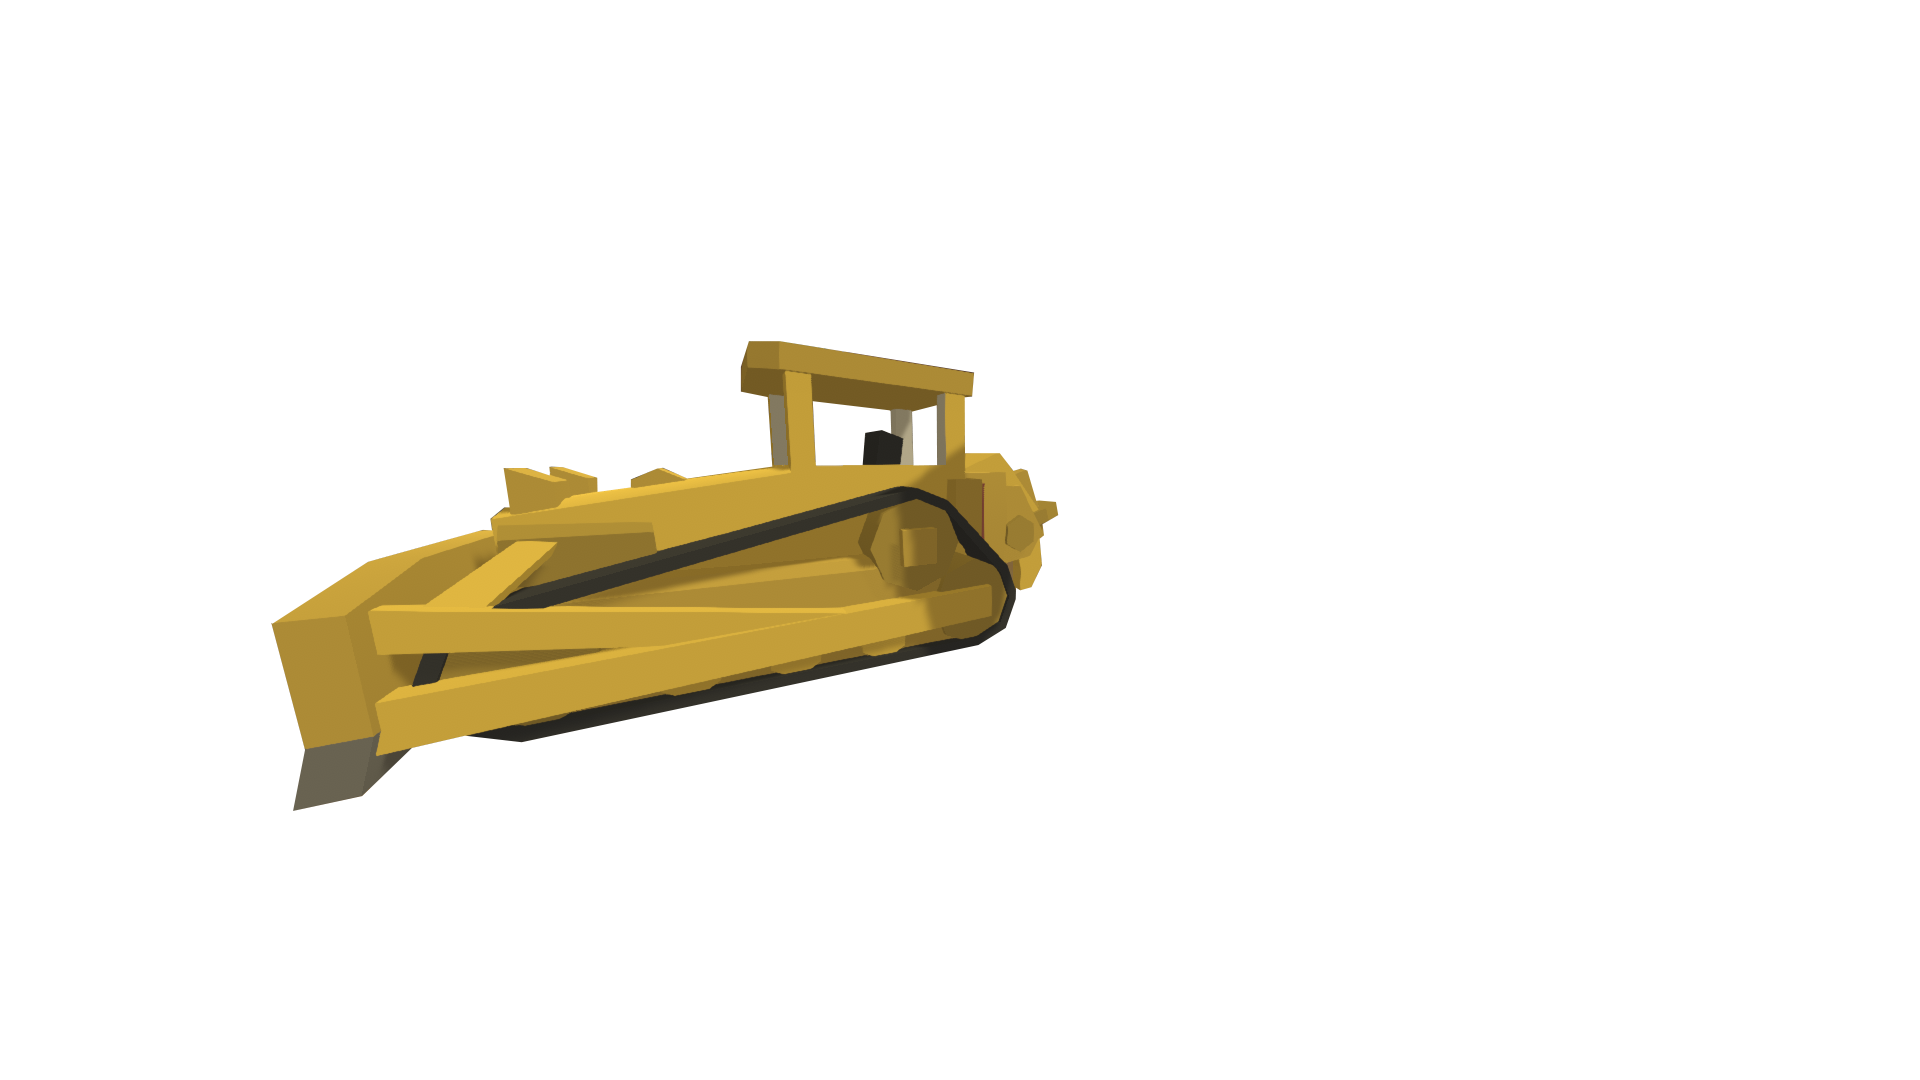
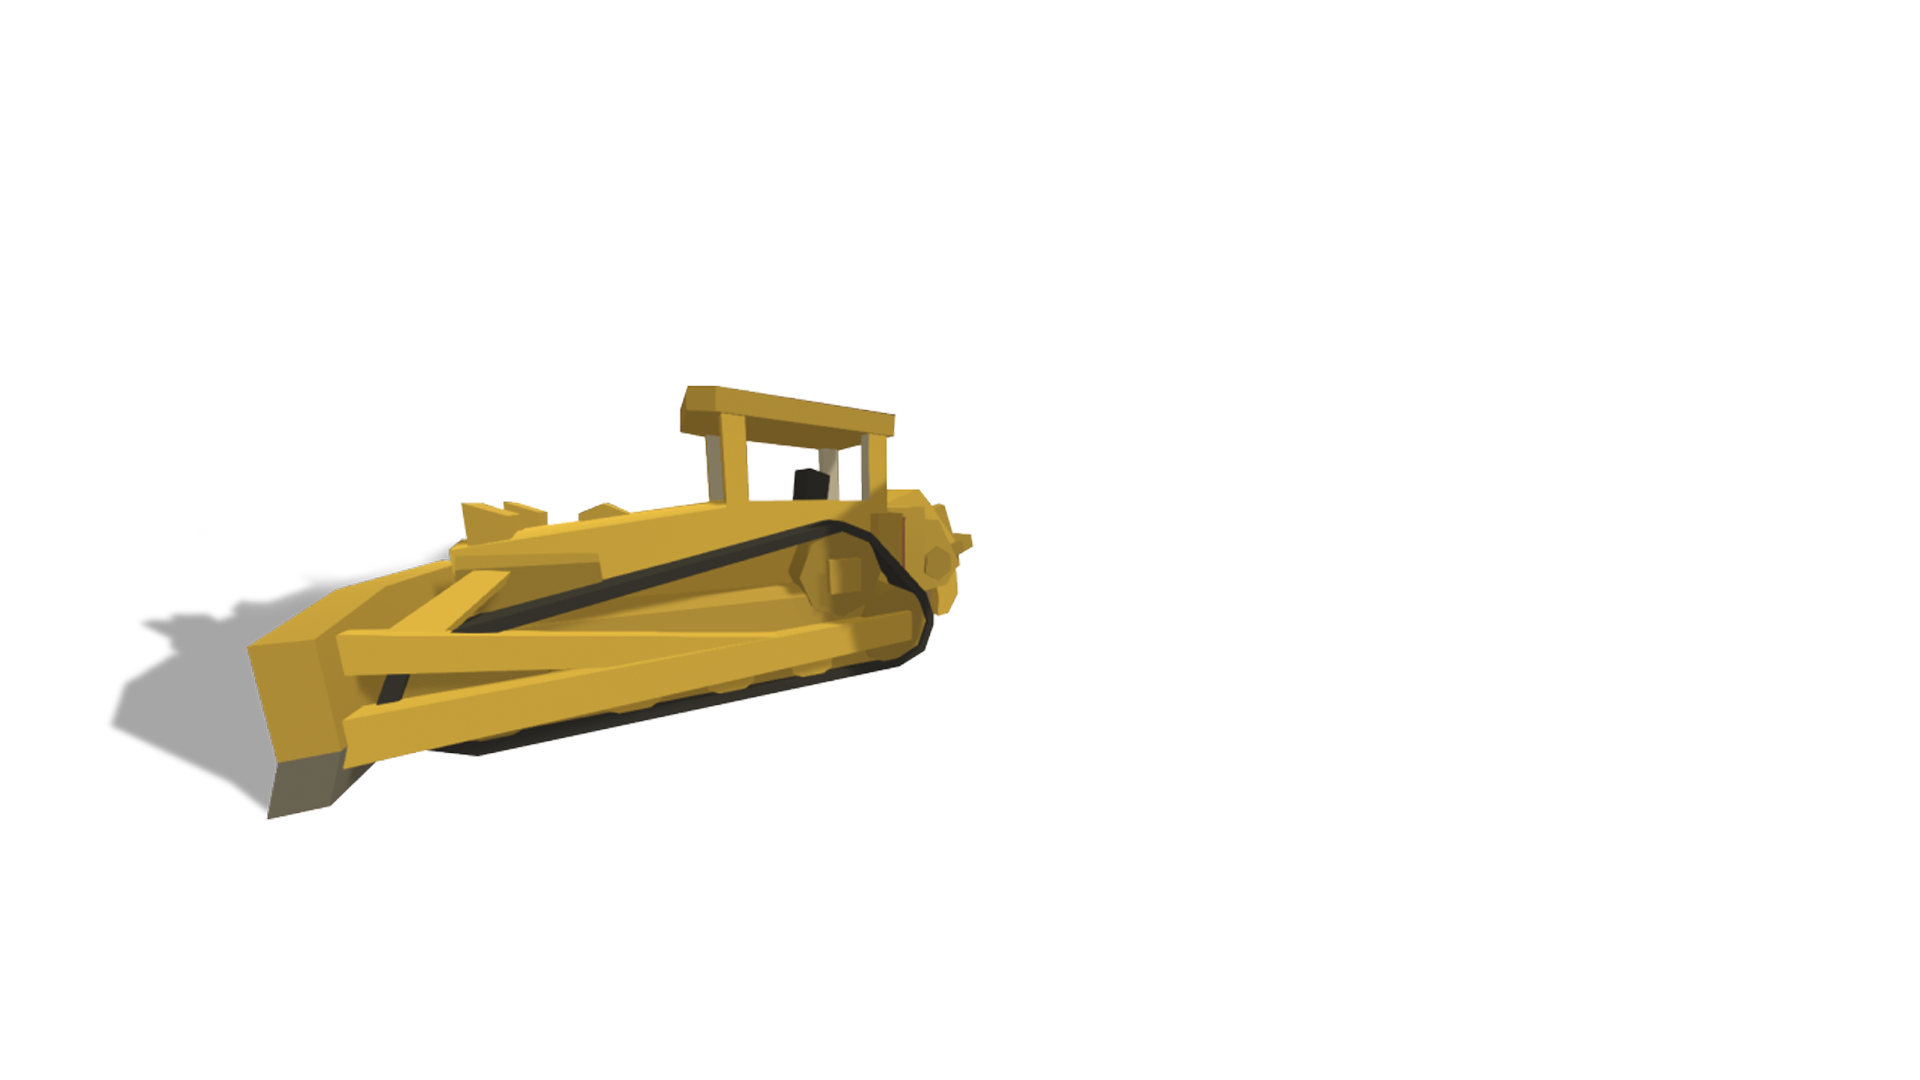
Ajout texte flottant

Changed region(s): [[0.0625, 0.3056, 0.5625, 0.7639]]

diff --git a/resources/views/misc/accueil.blade.php b/resources/views/misc/accueil.blade.php
@@ -7,20 +7,120 @@
     overflow: hidden;
   }
 
-  .scaled > * {
+  .scaled>* {
     /* the children */
     margin: -25px;
+  }
+
+  .para-text {
+    width: 100%;
+    height: 100%;
+  }
+
+  .para-title {
+    max-width: 25vw;
+    font-size: calc(14px + (35 - 14) * ((100vw - 300px) / (1600 - 300)));
+
+    -webkit-animation: floating-text 2s ease alternate infinite;
+    -moz-animation: floating-text 2s ease alternate infinite;
+    -ms-animation: floating-text 2s ease alternate infinite;
+    -o-animation: floating-text 2s ease alternate infinite;
+    animation: floating-text 2s ease alternate infinite;
+  }
+
+
+  @-webkit-keyframes floating-text {
+    0% {
+      -webkit-transform: translateY(.2em);
+      text-shadow: 0 0 .5em rgba(255, 255, 255, .4),
+        0 0 .2em rgba(0, 0, 0, .3),
+        0 .3em .2em rgba(0, 0, 0, .3);
+
+    }
+
+    100% {
+      text-shadow: 0 0 .5em rgba(255, 255, 255, .4),
+        0 0 .2em rgba(0, 0, 0, .3),
+        0 .5em .5em rgba(0, 0, 0, .3);
+    }
+  }
+
+  @-moz-keyframes floating-text {
+    0% {
+      -moz-transform: translateY(.2em);
+      text-shadow: 0 0 .5em rgba(255, 255, 255, .4),
+        0 0 .2em rgba(0, 0, 0, .3),
+        0 .3em .2em rgba(0, 0, 0, .3);
+
+    }
+
+    100% {
+      text-shadow: 0 0 .5em rgba(255, 255, 255, .4),
+        0 0 .2em rgba(0, 0, 0, .3),
+        0 .5em .5em rgba(0, 0, 0, .3);
+    }
+  }
+
+  @-ms-keyframes floating-text {
+    0% {
+      -ms-transform: translateY(.2em);
+      text-shadow: 0 0 .5em rgba(255, 255, 255, .4),
+        0 0 .2em rgba(0, 0, 0, .3),
+        0 .3em .2em rgba(0, 0, 0, .3);
+
+    }
+
+    100% {
+      text-shadow: 0 0 .5em rgba(255, 255, 255, .4),
+        0 0 .2em rgba(0, 0, 0, .3),
+        0 .5em .5em rgba(0, 0, 0, .3);
+    }
+  }
+
+  @-o-keyframes floating-text {
+    0% {
+      -o-transform: translateY(.2em);
+      text-shadow: 0 0 .5em rgba(255, 255, 255, .4),
+        0 0 .2em rgba(0, 0, 0, .3),
+        0 .3em .2em rgba(0, 0, 0, .3);
+
+    }
+
+    100% {
+      text-shadow: 0 0 .5em rgba(255, 255, 255, .4),
+        0 0 .2em rgba(0, 0, 0, .3),
+        0 .5em .5em rgba(0, 0, 0, .3);
+    }
+  }
+
+  @keyframes floating-text {
+    0% {
+      transform: translateY(.2em);
+      text-shadow: 0 0 .5em rgba(255, 255, 255, .4),
+        0 0 .2em rgba(0, 0, 0, .3),
+        0 .3em .2em rgba(0, 0, 0, .3);
+
+    }
+
+    100% {
+      text-shadow: 0 0 .5em rgba(255, 255, 255, .4),
+        0 0 .2em rgba(0, 0, 0, .3),
+        0 .5em .5em rgba(0, 0, 0, .3);
+    }
   }
 </style>
 @endsection
 
 @section('content')
 <div class="scaled">
-    <figure id="scene">
-      <img class="img-fluid" src="/uploads/test_1.png" alt="image-1" data-depth="0.2">
-      <img class="img-fluid" src="/uploads/test_2.png" alt="image-2" data-depth="0.4">
-      <img class="img-fluid" src="/uploads/test_3.png" alt="image-3" data-depth="0.6">
-    </figure>
+  <figure id="scene">
+    <img class="img-fluid" src="/uploads/test_1.png" alt="image-1" data-depth="0.2">
+    <img class="img-fluid" src="/uploads/test_2.png" alt="image-2" data-depth="0.25">
+    <div class="para-text" data-depth="0.4">
+      <h1 class="para-title" style="left: 25%; top: 25%; position: absolute; color: #fff;">Wow, ce chantier est très sécurisé !</h1>
+    </div>
+    <img class="img-fluid" src="/uploads/test_3.png" alt="image-3" data-depth="0.5">
+  </figure>
 </div>
 @endsection
 
@@ -33,6 +133,7 @@
     invertX: true,
     limitY: 50,
     limitX: 50,
+    frictionX: 0.08,
   });
 </script>
 @endsection

diff --git a/app/Http/Middleware/IsAdmin.php b/app/Http/Middleware/IsAdmin.php
@@ -15,7 +15,9 @@ class IsAdmin
      */
     public function handle($request, Closure $next)
     {
-        if (!auth()->user()->hasRole('admin')) {
+        if (!auth()->user()) {
+            return redirect('/');
+        } elseif (!auth()->user()->hasRole('admin')) {
             return redirect('/');
         }
 
